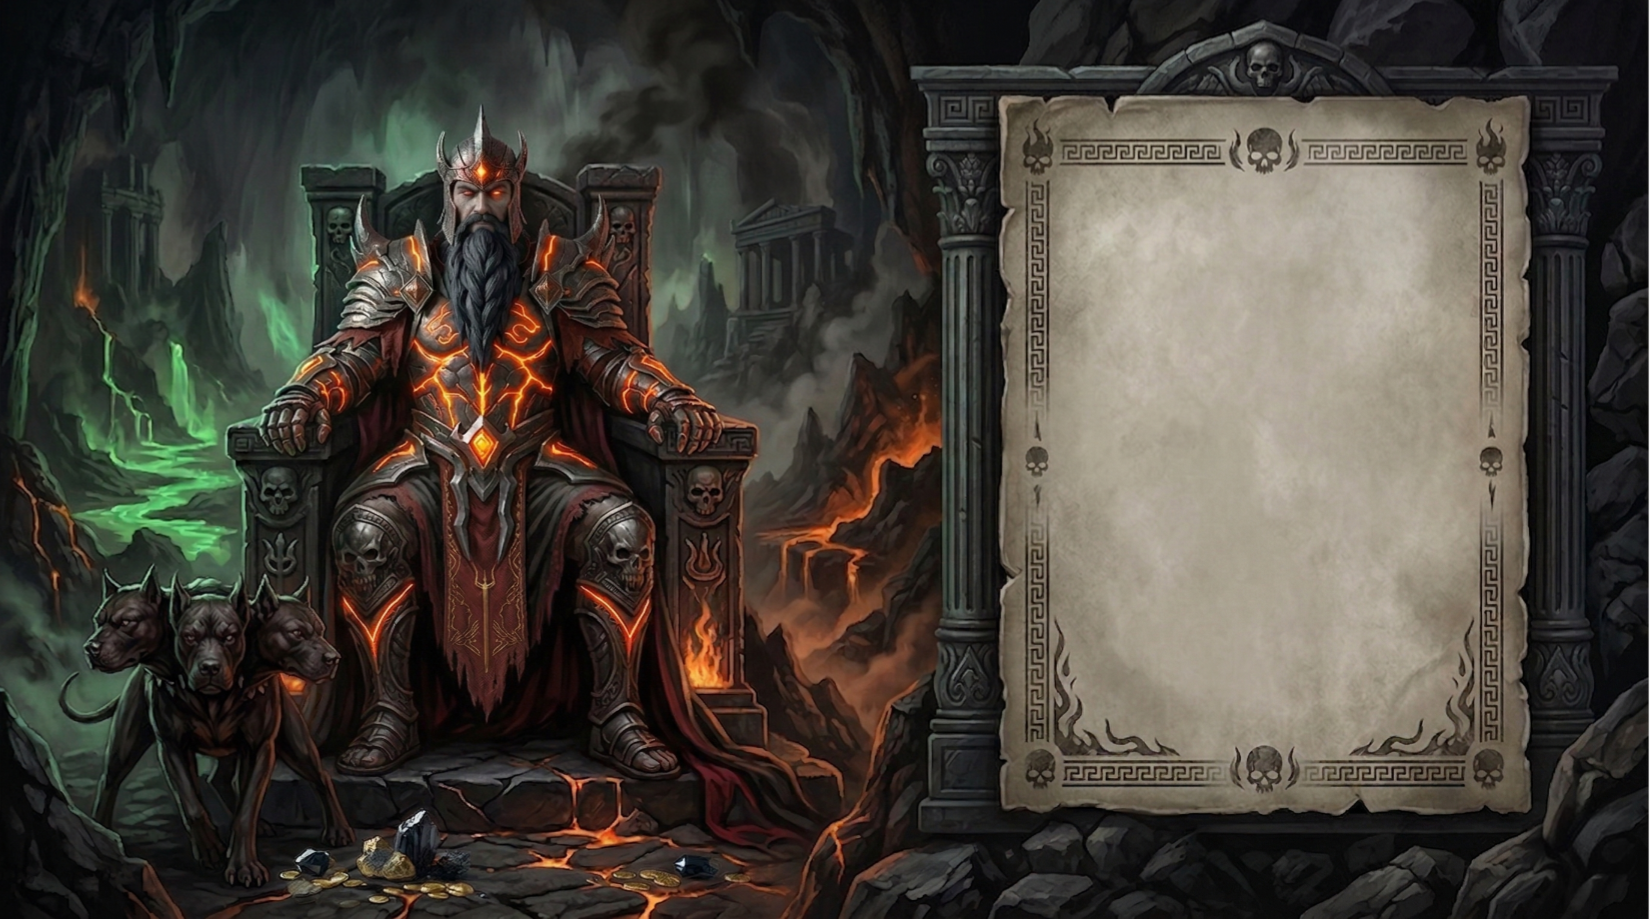
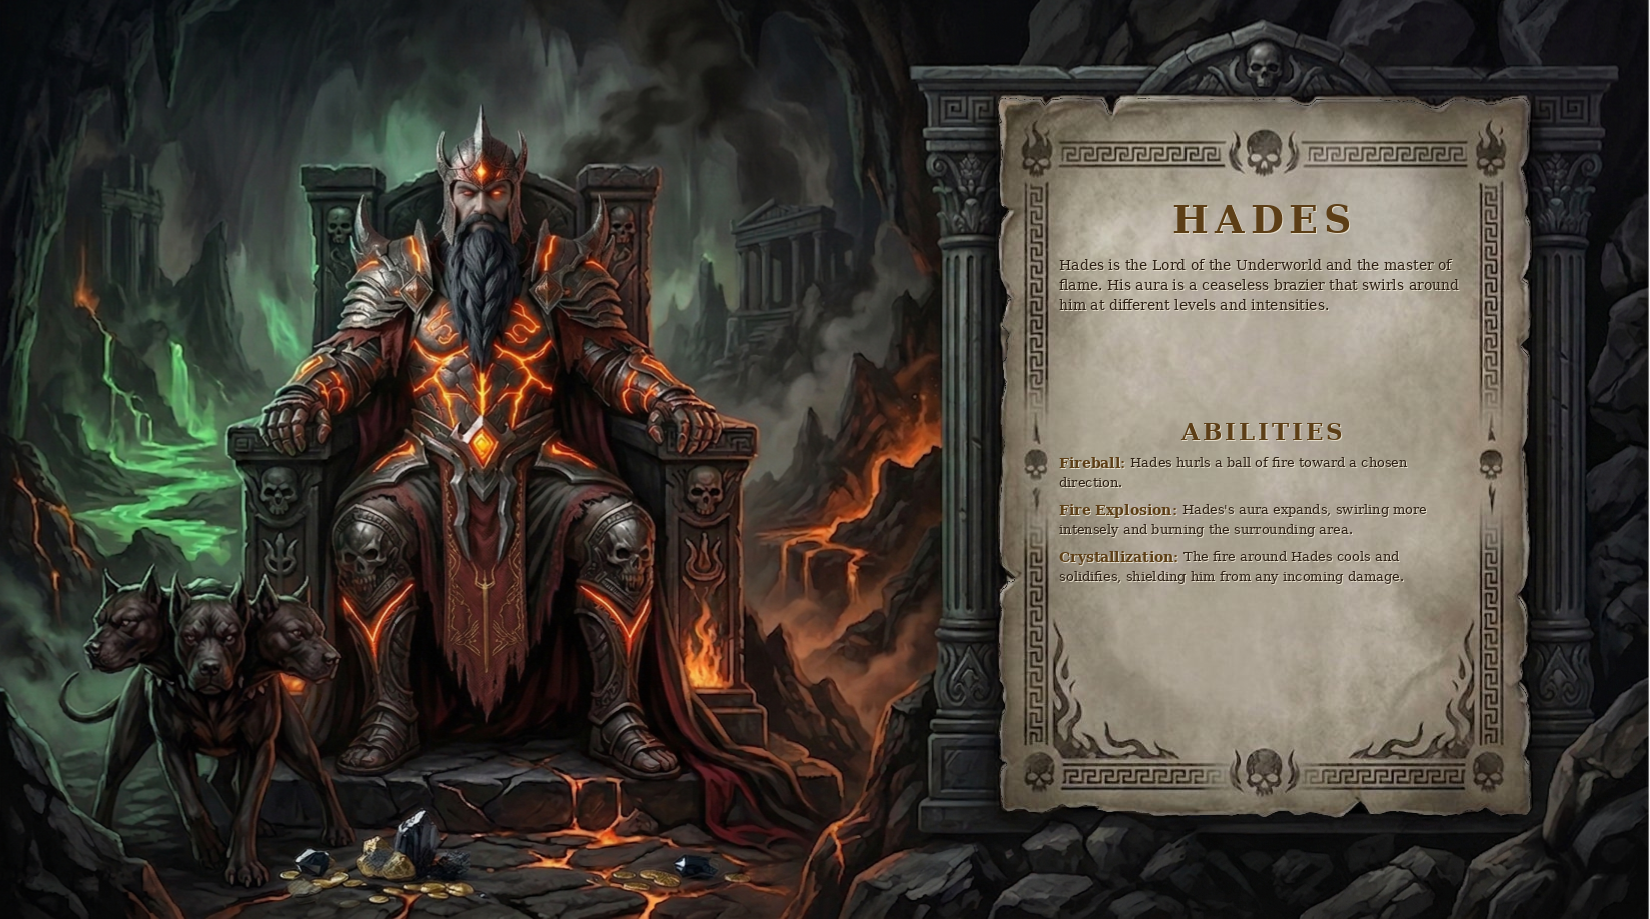
Sezione Characters and Rules completa

diff --git a/frontend/src/game/UI/components/SkillHud.tsx b/frontend/src/game/UI/components/SkillHud.tsx
@@ -84,13 +84,13 @@ const HUD: Record<string, { box: string; skills: SkillDef[] }> = {
 const SKILL_TEXT: Record<string, Record<string, { name: string; desc: string }>> = {
   [CharacterName.ZEUS]: {
     spell:   { name: 'Thunder-bolt', desc: 'Una saetta viene scagliata con violenza dall\u2019aura di Zeus verso il punto scelto.' },
-    melee:   { name: 'Thunderstorm',   desc: 'L\u2019aura di Zeus inizia a dilatarsi violentemente facendo danni a qualsiasi bersaglio rientri nella sua area.' },
+    melee:   { name: 'Thunderstorm',   desc: 'L\u2019aura di Zeus inizia a espandersi violentemente facendo danni a qualsiasi bersaglio nella sua area.' },
     defence: { name: 'Thunder Shell',   desc: 'I fulmini di Zeus si raggruppano in un impenetrabile groviglio elettrico che lo isola completamente dai danni.' },
   },
   [CharacterName.ADE]: {
     spell:   { name: 'Fire-ball',   desc: 'Una sfera infuocata si stacca dall\u2019aura di Ade per essere scagliata sul bersaglio.' },
     melee:   { name: 'Fire explosion',   desc: 'L\u2019aura di Ade diventa un turbine di fuoco che colpisce tutto intorno a se.' },
-    defence: { name: 'Fire Shell',    desc: 'Il fuoco di Ade si solidifica intorno a lui e annulla tutti i danni subiti per un breve periodo di tempo.' },
+    defence: { name: 'Crystallization',    desc: 'Il fuoco di Ade si solidifica intorno a lui e annulla tutti i danni subiti per un breve periodo di tempo.' },
   },
 };
 
